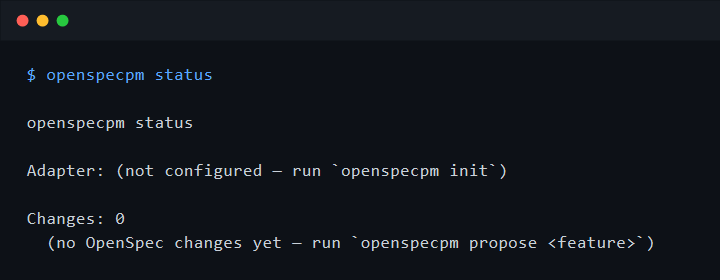
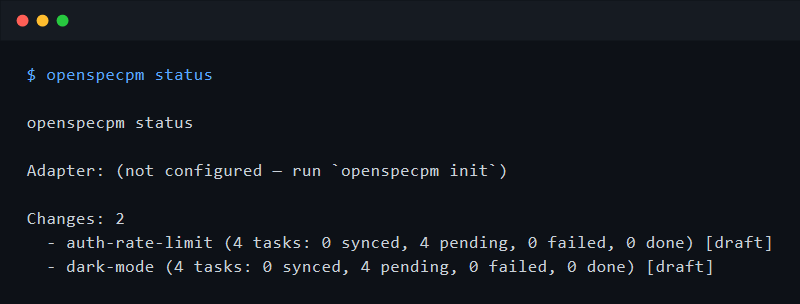
docs: expand In action with full workflow walkthrough (6 screenshots)
Adds three new flow screenshots (next, blocked, validate) and replaces the prior empty-state status + single-adapter doctor with populated multi-feature versions:

  doctor    — all 5 adapters (github, azure, jira, linear, gitlab)
  status    — 2 changes × 4 tasks each
  next -l 5 — 3 ready parallel tasks across both features
  blocked   — 5 blocked tasks with named dependencies
  validate  — schema + BDD lint sweep across every change

render.ps1 now sets up its own sample OpenSpec changes (dark-mode +
auth-rate-limit) via 'propose --offline' before capturing flow commands,
then cleans up so the working tree stays clean. Switched the tasks.md
write to BOM-less UTF-8 so the YAML frontmatter parses correctly under
Windows PowerShell 5.1.

diff --git a/README.md b/README.md
@@ -55,19 +55,31 @@ npm install -g @fission-ai/openspec
 
 ## In action
 
-> A few screenshots of OpenSpecPM doing work. Source images live in [`docs/screenshots/`](docs/screenshots/); regenerate with `pwsh docs/screenshots/render.ps1` after CLI output changes.
+> A walkthrough of OpenSpecPM running against two sample features (`dark-mode`, `auth-rate-limit`). Source images live in [`docs/screenshots/`](docs/screenshots/); regenerate with `pwsh docs/screenshots/render.ps1` after CLI output changes — the renderer sets up its own sample data and cleans up after itself.
 
-**Phase-grouped command reference** — `help-table` shows every command grouped by workflow phase (Setup, Plan, Sync, Track, Execute/Ship):
+**1 · Phase-grouped command reference** — `help-table` shows every command grouped by workflow phase (Setup → Plan → Sync → Track → Execute/Ship):
 
 ![openspecpm help-table](docs/screenshots/help-table.png)
 
-**Health check** — `doctor` diagnoses auth + tooling for each adapter with English remediation hints on every failure:
+**2 · Health check across every adapter** — `doctor` diagnoses auth + tooling for all five backends (GitHub, Azure DevOps, Jira, Linear, GitLab) with an English remediation hint on every failure:
 
-![openspecpm doctor github](docs/screenshots/doctor.png)
+![openspecpm doctor](docs/screenshots/doctor.png)
 
-**Local snapshot** — `status` shows the configured adapter and per-change task counts at a glance:
+**3 · Multi-feature status** — `status` shows the configured adapter and per-change task counts (`synced / pending / failed / done`) at a glance:
 
 ![openspecpm status](docs/screenshots/status.png)
+
+**4 · "What can I work on right now?"** — `next` lists tasks with no unmet dependencies, marking parallel-safe ones so multiple agents can pick them up:
+
+![openspecpm next](docs/screenshots/next.png)
+
+**5 · "What's waiting on what?"** — `blocked` lists every task held up by a dependency and names the blocker, so the path to unblocking is one read away:
+
+![openspecpm blocked](docs/screenshots/blocked.png)
+
+**6 · Project-wide validation** — `validate` runs the schema check and BDD linter across every change and reports per-feature error + warning counts:
+
+![openspecpm validate](docs/screenshots/validate.png)
 
 ## Quick start
 
